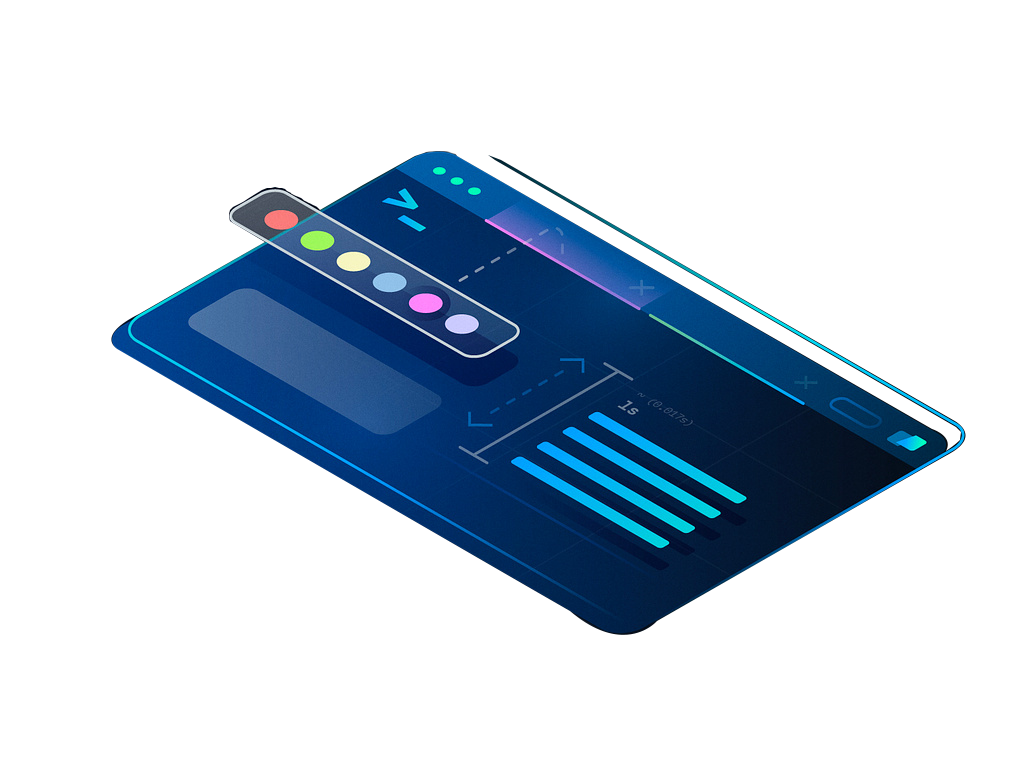
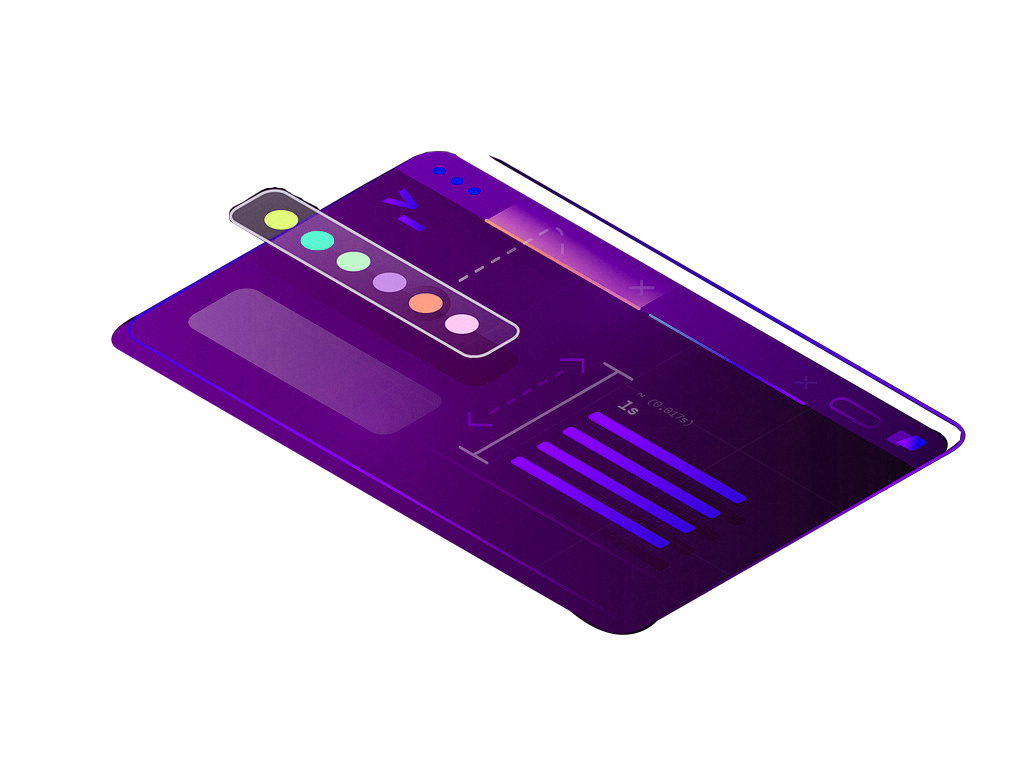
change colors

Changed region(s): [[0.0938, 0.1875, 0.9375, 0.8438]]

diff --git a/styles.css b/styles.css
@@ -34,6 +34,12 @@
     --color3: #949494;
     --color4: #ececec;
     --color5: #ffffff;
+
+    --theme1: #8f78d9;
+    --theme2: #6a12c2;
+    --theme3: #590d77;
+    --theme4: #5c425b;
+    --theme5: #230b3b;
 }
   
 html, body {
@@ -150,8 +156,8 @@ html, body {
   
 .main-title-container button {
     border-radius: 4000px;
-    color: var(--color3);
-    background-color: var(--color1);
+    color: var(--theme1);
+    background-color: transparent;
     border: 2px solid var(--color4);
     padding: 0.5vw 1vw 0.5vw 1vw;
     transition: 0.4s ease-in-out;
@@ -176,7 +182,7 @@ html, body {
 
 
 .navbar a:hover{
-    color: var(--color2);
+    color: var(--theme1);
     transform: scale(1.15);
     cursor: pointer;
 }
@@ -241,6 +247,7 @@ html, body {
 }
 
 .imageDesk img{
+  filter: grayscale(0%) brightness(110%);
   width: 40vw;
   mix-blend-mode:hard-light;
   height: auto;
@@ -248,34 +255,20 @@ html, body {
   margin-top: -32vmax;
   z-index: 9999999;
   opacity: 80%;
+  transition: 0.75s ease-in-out;
 }
 
+.imageDesk img:hover{
+  transform: matrix(1, 0, 0, 1.25, 0, 0);
+}
 
 .projectSection {
-    display: flex;
-    flex-wrap:wrap;
-    justify-content:space-around;
-    gap: -10vw;
-    padding: 1vw 1vw 2vw 1vw;
-    margin: 0vw 0vw 0vw 0vw;
-    background-color: var(--color3);
-}
-
-.projectCard {
-    margin-top: 1vw;
-    margin: 1vw;
-    border-radius: 20px;
-    background-color: var(--color4);
-    height: 350px; /* Fix height to 15vh */
-    min-width: 250px;
-    max-width: 250px;
-    transition: 0.3s ease-in-out;
-}
-
-
-.projectCard:hover{
-    background-color: var(--color3);
-    cursor: pointer;
+  margin-left: auto;
+  margin-right: auto;
+    width: 100%;
+    height: 50vh;
+    background-color: var(--color1);
+    margin-bottom: 5vh;
 }
   
 
@@ -292,8 +285,7 @@ html, body {
   
   
   
-  
-  
+
   
   
   
@@ -458,18 +450,9 @@ html, body {
     }
 
     .projectSection{
-        padding-top: 10vw;
-        padding-bottom: 10vw;
-        margin: 42vw 0vw 3vw 0vw;
+
     }
 
-    .projectCard{
-        margin: 1vw;
-        border-radius: 20px;
-        background-color: var(--color2);
-        flex: 0 0 250px; /* Fix width to 20vw with margin subtracted */
-        height: 350px; /* Fix height to 15vh */
-    }
 
   
 }

diff --git a/index.html b/index.html
@@ -68,7 +68,7 @@
             data-aos-easing="ease-in-out"
             data-aos-mirror="false"
             data-aos-once="true">
-            harjot <br> kooner</h1>
+            harjot <br> <span style="color: #8234d1;">kooner</span></h1>
             <div class="date-and-resume">
                 <div class='time'
                 data-aos="fade-right"
@@ -89,11 +89,11 @@
                 data-aos-mirror="false"
                 data-aos-once="true"
                 data-aos-anchor-placement="top-bottom">
-                    <button id="resumeButton">download resume</button>
+                    <button onclick="downloadPDF()" id="resumeButton">download resume</button>
                 </div>
             </div>
         </div>
-        <div class="imageDesk"
+        <div id="tilt" class="imageDesk"
         data-aos="fade-left"
                 data-aos-offset="0"
                 data-aos-delay="000"
@@ -112,7 +112,7 @@
     </div>
     
 
-    <div className='projectSection'>
+    <div class='projectSection'>
 
     </div>
 

diff --git a/script.js b/script.js
@@ -52,4 +52,17 @@ const intervalId = setInterval(() => {
 
 
 
-
+function downloadPDF() {
+    // Create a link element
+    var link = document.createElement('a');
+    // Set the href attribute to the path of your PDF file
+    link.href = 'harjotKoonerResume.pdf';
+    // Set the download attribute with a desired filename
+    link.download = 'Harjot Kooner Resume.pdf';
+    // Append the link to the body (required for Firefox)
+    document.body.appendChild(link);
+    // Trigger a click on the link to start the download
+    link.click();
+    // Remove the link from the body (cleanup)
+    document.body.removeChild(link);
+}
